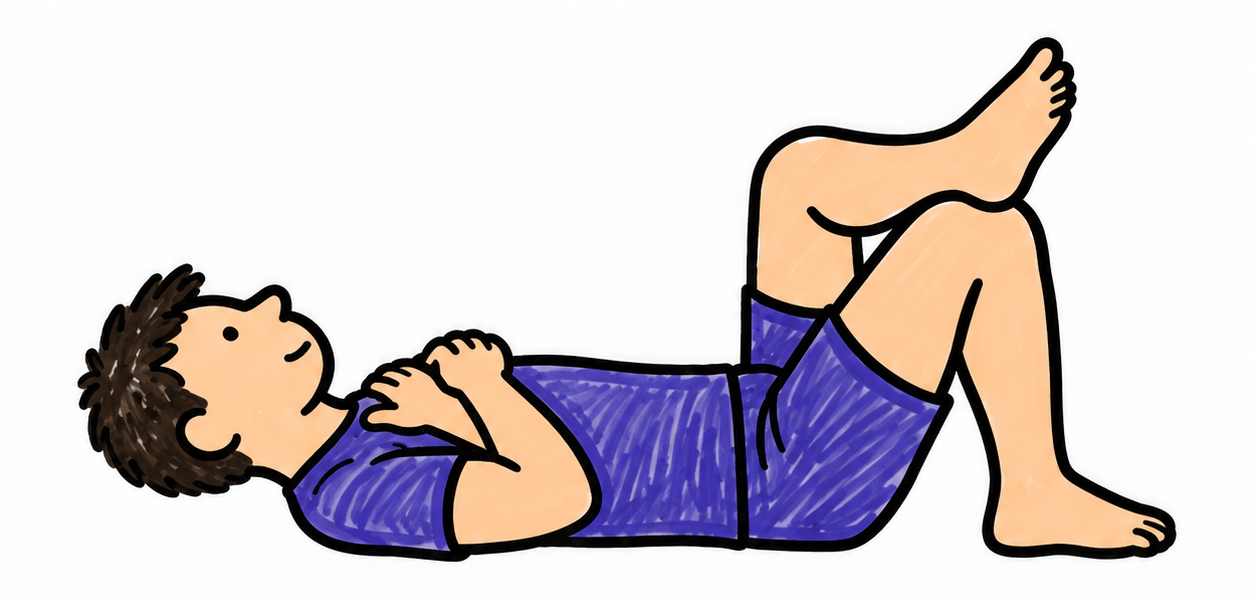
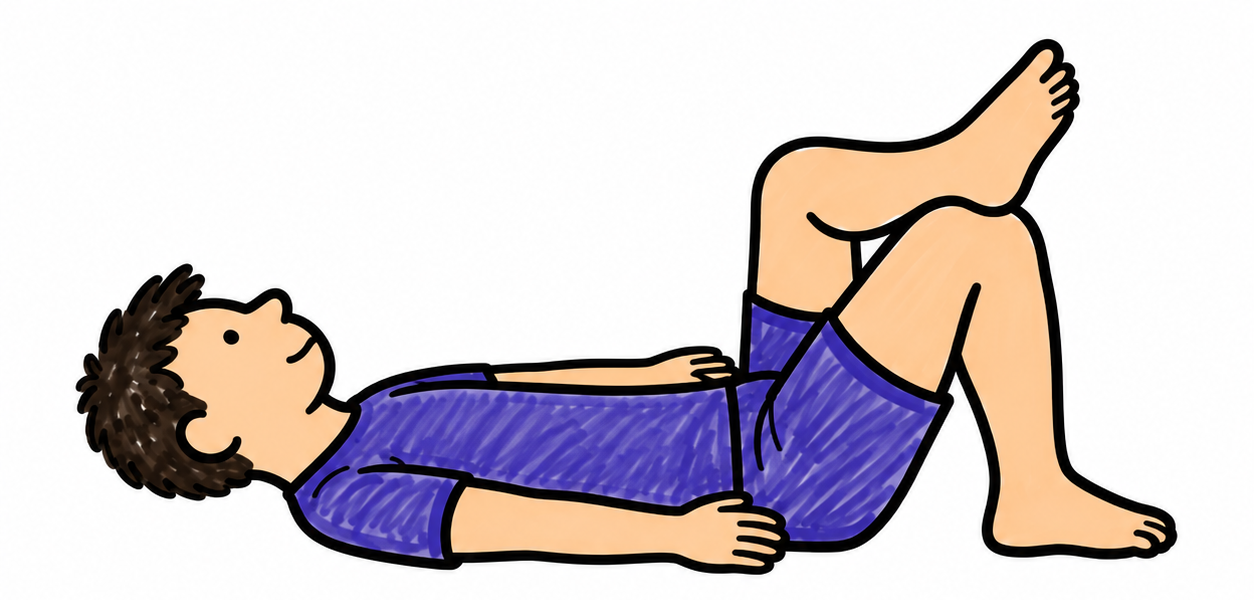
Clarify arm anatomy in marker cross-body curl poses

diff --git a/docs/back-care.md b/docs/back-care.md
@@ -34,7 +34,7 @@ References consulted:
 
 54 new WebP frames, eighteen per style; cat–cow reuses the existing Night Stretch art. Opposite sides mirror the same asset. Photo frames use quality 85; marker frames use lossless WebP with decoded-pixel equality checks. Generation sources stay in ignored `work/back-care/originals`, not the deployed app.
 
-`scripts/prepare-back-art.mjs` takes nine source sheets (A male/female/marker, B male/female/marker, C male/female/marker) followed by the corrected marker cross-body pair. Reviewed crops avoid neighbouring sprites. Pairs use equal canvases without resampling the marker strokes. The correction uses both forearms folded across the chest, replacing the confusing hand-behind-head anatomy in both states. The final compression report is written beside the archived originals.
+`scripts/prepare-back-art.mjs` takes nine source sheets (A male/female/marker, B male/female/marker, C male/female/marker) followed by the corrected marker cross-body pair. Reviewed crops avoid neighbouring sprites. Pairs use equal canvases without resampling the marker strokes. The corrected v3 pair shows two separate, near-straight arms beside the torso, reaching forward during the curl. It replaces the ambiguous crossed-arm and hand-behind-head variants. Keep shoulder-to-hand silhouettes distinct; do not reintroduce crossed forearms. The final compression report is written beside the archived originals.
 
 Generation brief: white background, entire person visible, purple clothes, simple existing marker style or matching male/female photo style; fixed camera, body size, pelvis and grounded limb positions across paired states. No text or embedded arrows. Direction arrows are SVG overlays in the app.
 
